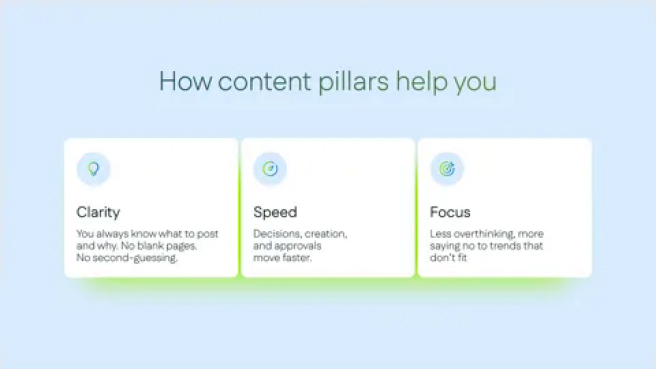
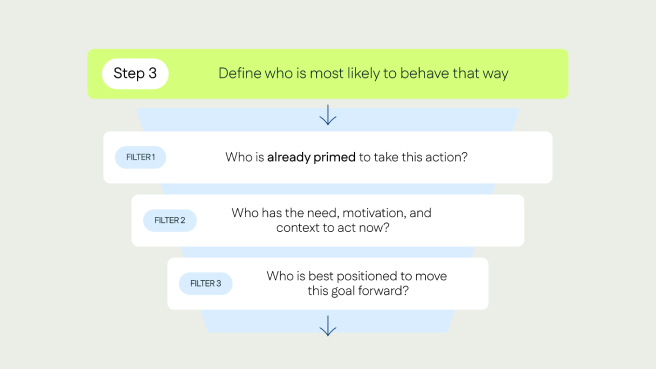
Update HoSS masterclass covers to 12

Changed region(s): [[0.0915, 0.3577, 0.8841, 0.9241], [0.122, 0.1192, 0.8841, 0.3279], [0.122, 0.5366, 0.1829, 0.5962]]

diff --git a/hoss/index.html b/hoss/index.html
@@ -603,7 +603,7 @@ html,body{background:#fff}
 #result>p{max-width:920px;justify-self:center;font-size:20px;line-height:30px}#result>p em{font-family:Fraunces,serif;font-style:italic;font-weight:400;font-size:1.06em;letter-spacing:-.01em}@media(max-width:820px){#result>p{font-size:24px;line-height:36px;justify-self:stretch}}
 #presentations .pres-photos>div:nth-child(2) img,#presentations .pres-photos>div:nth-child(3) img{object-position:50% 0}
 #presentations [hidden]{display:none!important}
-#presentations .pres-covers>div{position:relative}#presentations .pres-covers>div::after{content:"";position:absolute;inset:0;border-radius:inherit;pointer-events:none;box-shadow:inset 0 0 0 1px var(--st,transparent)}#presentations .pres-covers>div:nth-child(2),#presentations .pres-covers>div:nth-child(5),#presentations .pres-covers>div:nth-child(8){--st:#EFF8FF}#presentations .pres-covers>div:nth-child(3),#presentations .pres-covers>div:nth-child(4),#presentations .pres-covers>div:nth-child(7){--st:#E4E5E8}
+#presentations .pres-covers>div{position:relative}#presentations .pres-covers>div::after{content:"";position:absolute;inset:0;border-radius:inherit;pointer-events:none;box-shadow:inset 0 0 0 1px var(--st,transparent)}#presentations .pres-covers>div:nth-child(2),#presentations .pres-covers>div:nth-child(5),#presentations .pres-covers>div:nth-child(7),#presentations .pres-covers>div:nth-child(8),#presentations .pres-covers>div:nth-child(10){--st:#EFF8FF}#presentations .pres-covers>div:nth-child(3),#presentations .pres-covers>div:nth-child(4),#presentations .pres-covers>div:nth-child(11),#presentations .pres-covers>div:nth-child(12){--st:#E4E5E8}
 
 #presentations .pres-wall-m{display:none}
 @media(max-width:820px){#presentations .pres-wall{display:none}#presentations .pres-wall-m{display:grid;gap:8px}#presentations .pres-wall-m>div{aspect-ratio:171/96;border-radius:3px}}
@@ -660,7 +660,7 @@ html,body{background:#fff}
 <div class="pres-text"><p>Four extensive speaker decks were reworked for&nbsp;large screens. Layouts, typography and&nbsp;hierarchy were rebuilt slide by&nbsp;slide, and&nbsp;dense data, charts and&nbsp;long text blocks were restructured for&nbsp;clarity. Each speaker’s brand style and&nbsp;content stayed unchanged.</p></div>
 <div class="pres-grid pres-speakers" data-anim="speaker-decks"><div class="pd-stage"><div class="pd-deck" data-deck="giant-leap" data-count="5" data-title="Giant Leap"></div></div><div class="pd-stage"><div class="pd-deck" data-deck="santiago" data-count="11" data-title="Santiago García"></div></div><div class="pd-stage"><div class="pd-deck" data-deck="shift" data-count="5" data-title="SHIFT"></div></div><div class="pd-stage"><div class="pd-deck" data-deck="push" data-count="5" data-total="1350" data-title="PUSH"></div></div></div>
 <div class="case-copy-panel pres-intro"><p class="editorial-title">8 masterclasses, 250+ slides,<br> <em>designed for&nbsp;the&nbsp;room.</em></p><p class="editorial-description">All 8 masterclasses were built on&nbsp;one template with shared layouts for&nbsp;frameworks, exercises and&nbsp;case studies. Every slide was designed to&nbsp;read clearly on&nbsp;big screens.</p></div>
-<div class="pres-grid pres-covers"><div><img src="assets/presentations/master-1.jpg" alt="Masterclass slide" loading="lazy" decoding="async"></div><div><img src="assets/presentations/master-2.jpg" alt="Masterclass slide" loading="lazy" decoding="async"></div><div><img src="assets/presentations/master-3.jpg" alt="Masterclass slide" loading="lazy" decoding="async"></div><div><img src="assets/presentations/master-4.jpg" alt="Masterclass slide" loading="lazy" decoding="async"></div><div><img src="assets/presentations/master-5.jpg" alt="Masterclass slide" loading="lazy" decoding="async"></div><div><img src="assets/presentations/master-6.jpg" alt="Masterclass slide" loading="lazy" decoding="async"></div><div><img src="assets/presentations/master-7.jpg" alt="Masterclass slide" loading="lazy" decoding="async"></div><div><img src="assets/presentations/master-8.jpg" alt="Masterclass slide" loading="lazy" decoding="async"></div></div>
+<div class="pres-grid pres-covers"><div><img src="assets/presentations/master-1.jpg" alt="Masterclass slide" loading="lazy" decoding="async"></div><div><img src="assets/presentations/master-2.jpg" alt="Masterclass slide" loading="lazy" decoding="async"></div><div><img src="assets/presentations/master-3.jpg" alt="Masterclass slide" loading="lazy" decoding="async"></div><div><img src="assets/presentations/master-4.jpg" alt="Masterclass slide" loading="lazy" decoding="async"></div><div><img src="assets/presentations/master-5.jpg" alt="Masterclass slide" loading="lazy" decoding="async"></div><div><img src="assets/presentations/master-6.jpg" alt="Masterclass slide" loading="lazy" decoding="async"></div><div><img src="assets/presentations/master-7.jpg" alt="Masterclass slide" loading="lazy" decoding="async"></div><div><img src="assets/presentations/master-8.jpg" alt="Masterclass slide" loading="lazy" decoding="async"></div><div><img src="assets/presentations/master-9.jpg" alt="Masterclass slide" loading="lazy" decoding="async"></div><div><img src="assets/presentations/master-10.jpg" alt="Masterclass slide" loading="lazy" decoding="async"></div><div><img src="assets/presentations/master-11.jpg" alt="Masterclass slide" loading="lazy" decoding="async"></div><div><img src="assets/presentations/master-12.jpg" alt="Masterclass slide" loading="lazy" decoding="async"></div></div>
 <div class="pres-text is-wide"><p>During masterclasses, delegates worked with two screens at&nbsp;once: slides in&nbsp;the&nbsp;room and&nbsp;an interactive platform for&nbsp;questions, votes and&nbsp;tasks. Both were refined in&nbsp;one visual language, so&nbsp;sessions felt like a&nbsp;single experience.</p></div>
 <div class="pres-grid pres-photos"><div><img src="assets/presentations/platform-1.jpg" alt="Masterclass session at HoSS" loading="lazy" decoding="async"></div><div><img src="assets/presentations/platform-2.jpg" alt="Masterclass session at HoSS" loading="lazy" decoding="async"></div><div><img src="assets/presentations/platform-3.jpg" alt="Masterclass session at HoSS" loading="lazy" decoding="async"></div></div>
 <div class="pres-text" hidden><p>Screen rotation for&nbsp;the&nbsp;headline sponsor, programme changes and&nbsp;quick updates for&nbsp;delegates. Designed to&nbsp;be read at&nbsp;a&nbsp;glance and&nbsp;to&nbsp;keep every screen at&nbsp;the&nbsp;venue unmistakably HoSS.</p></div>
